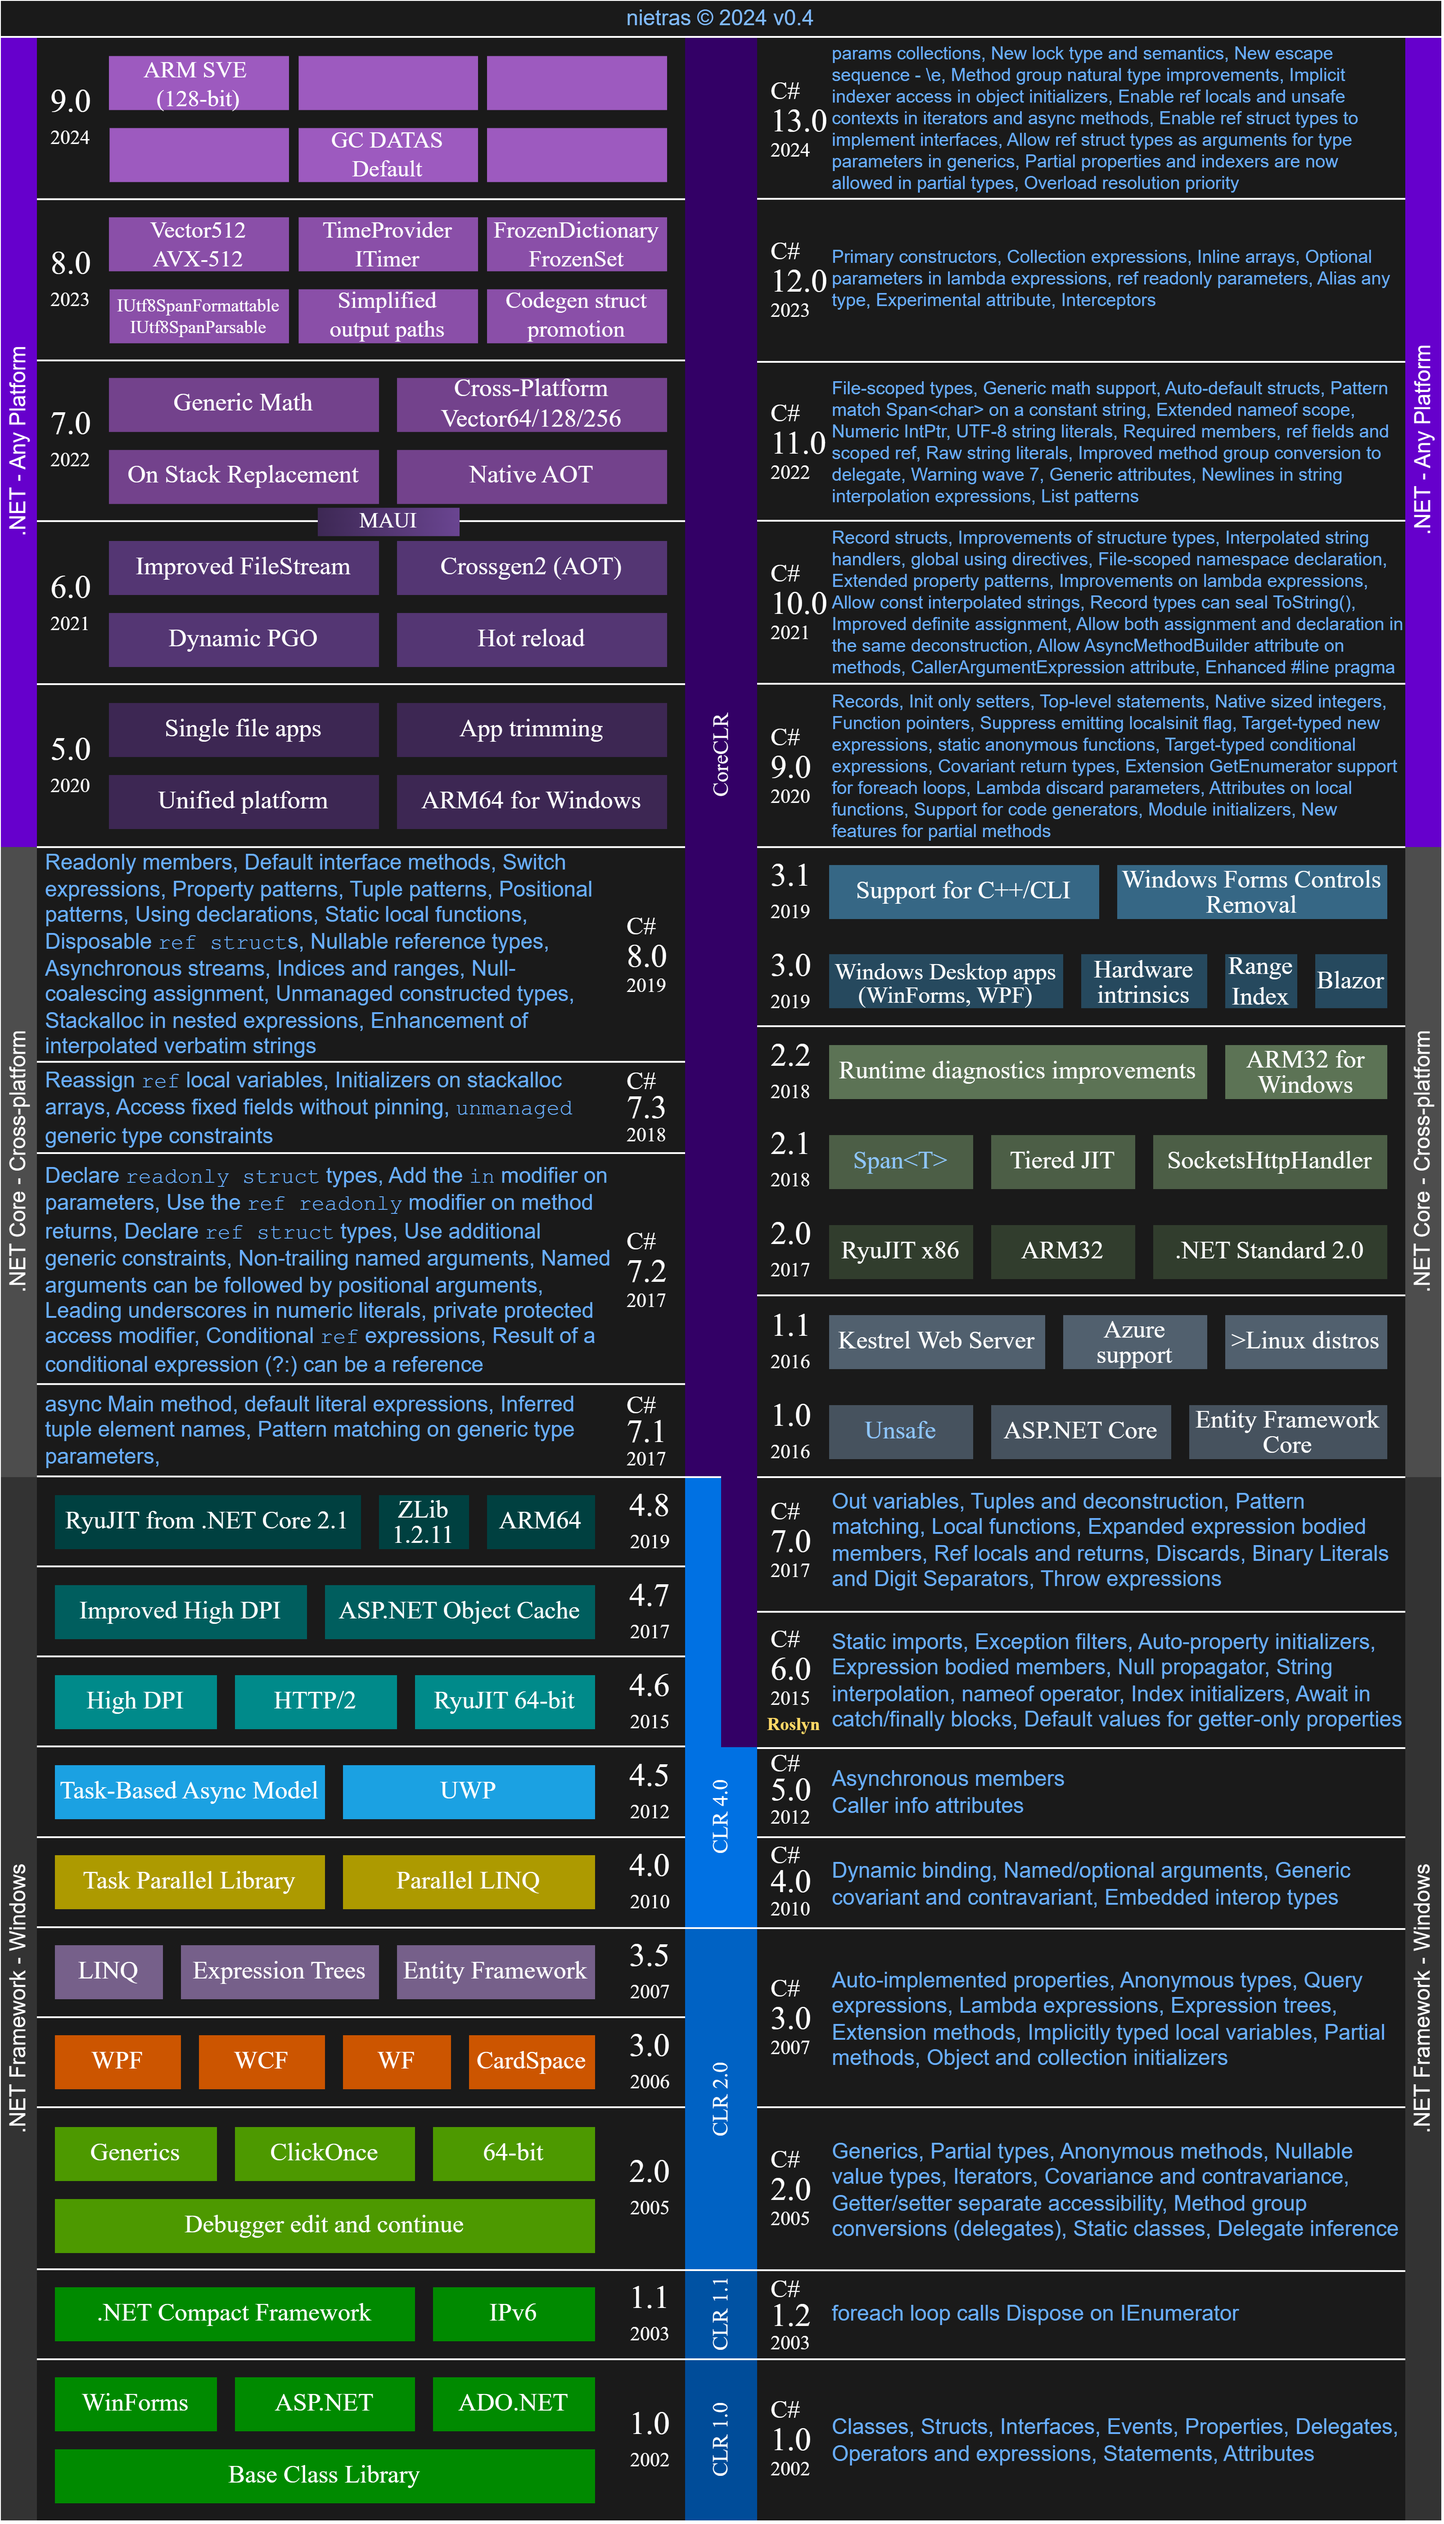
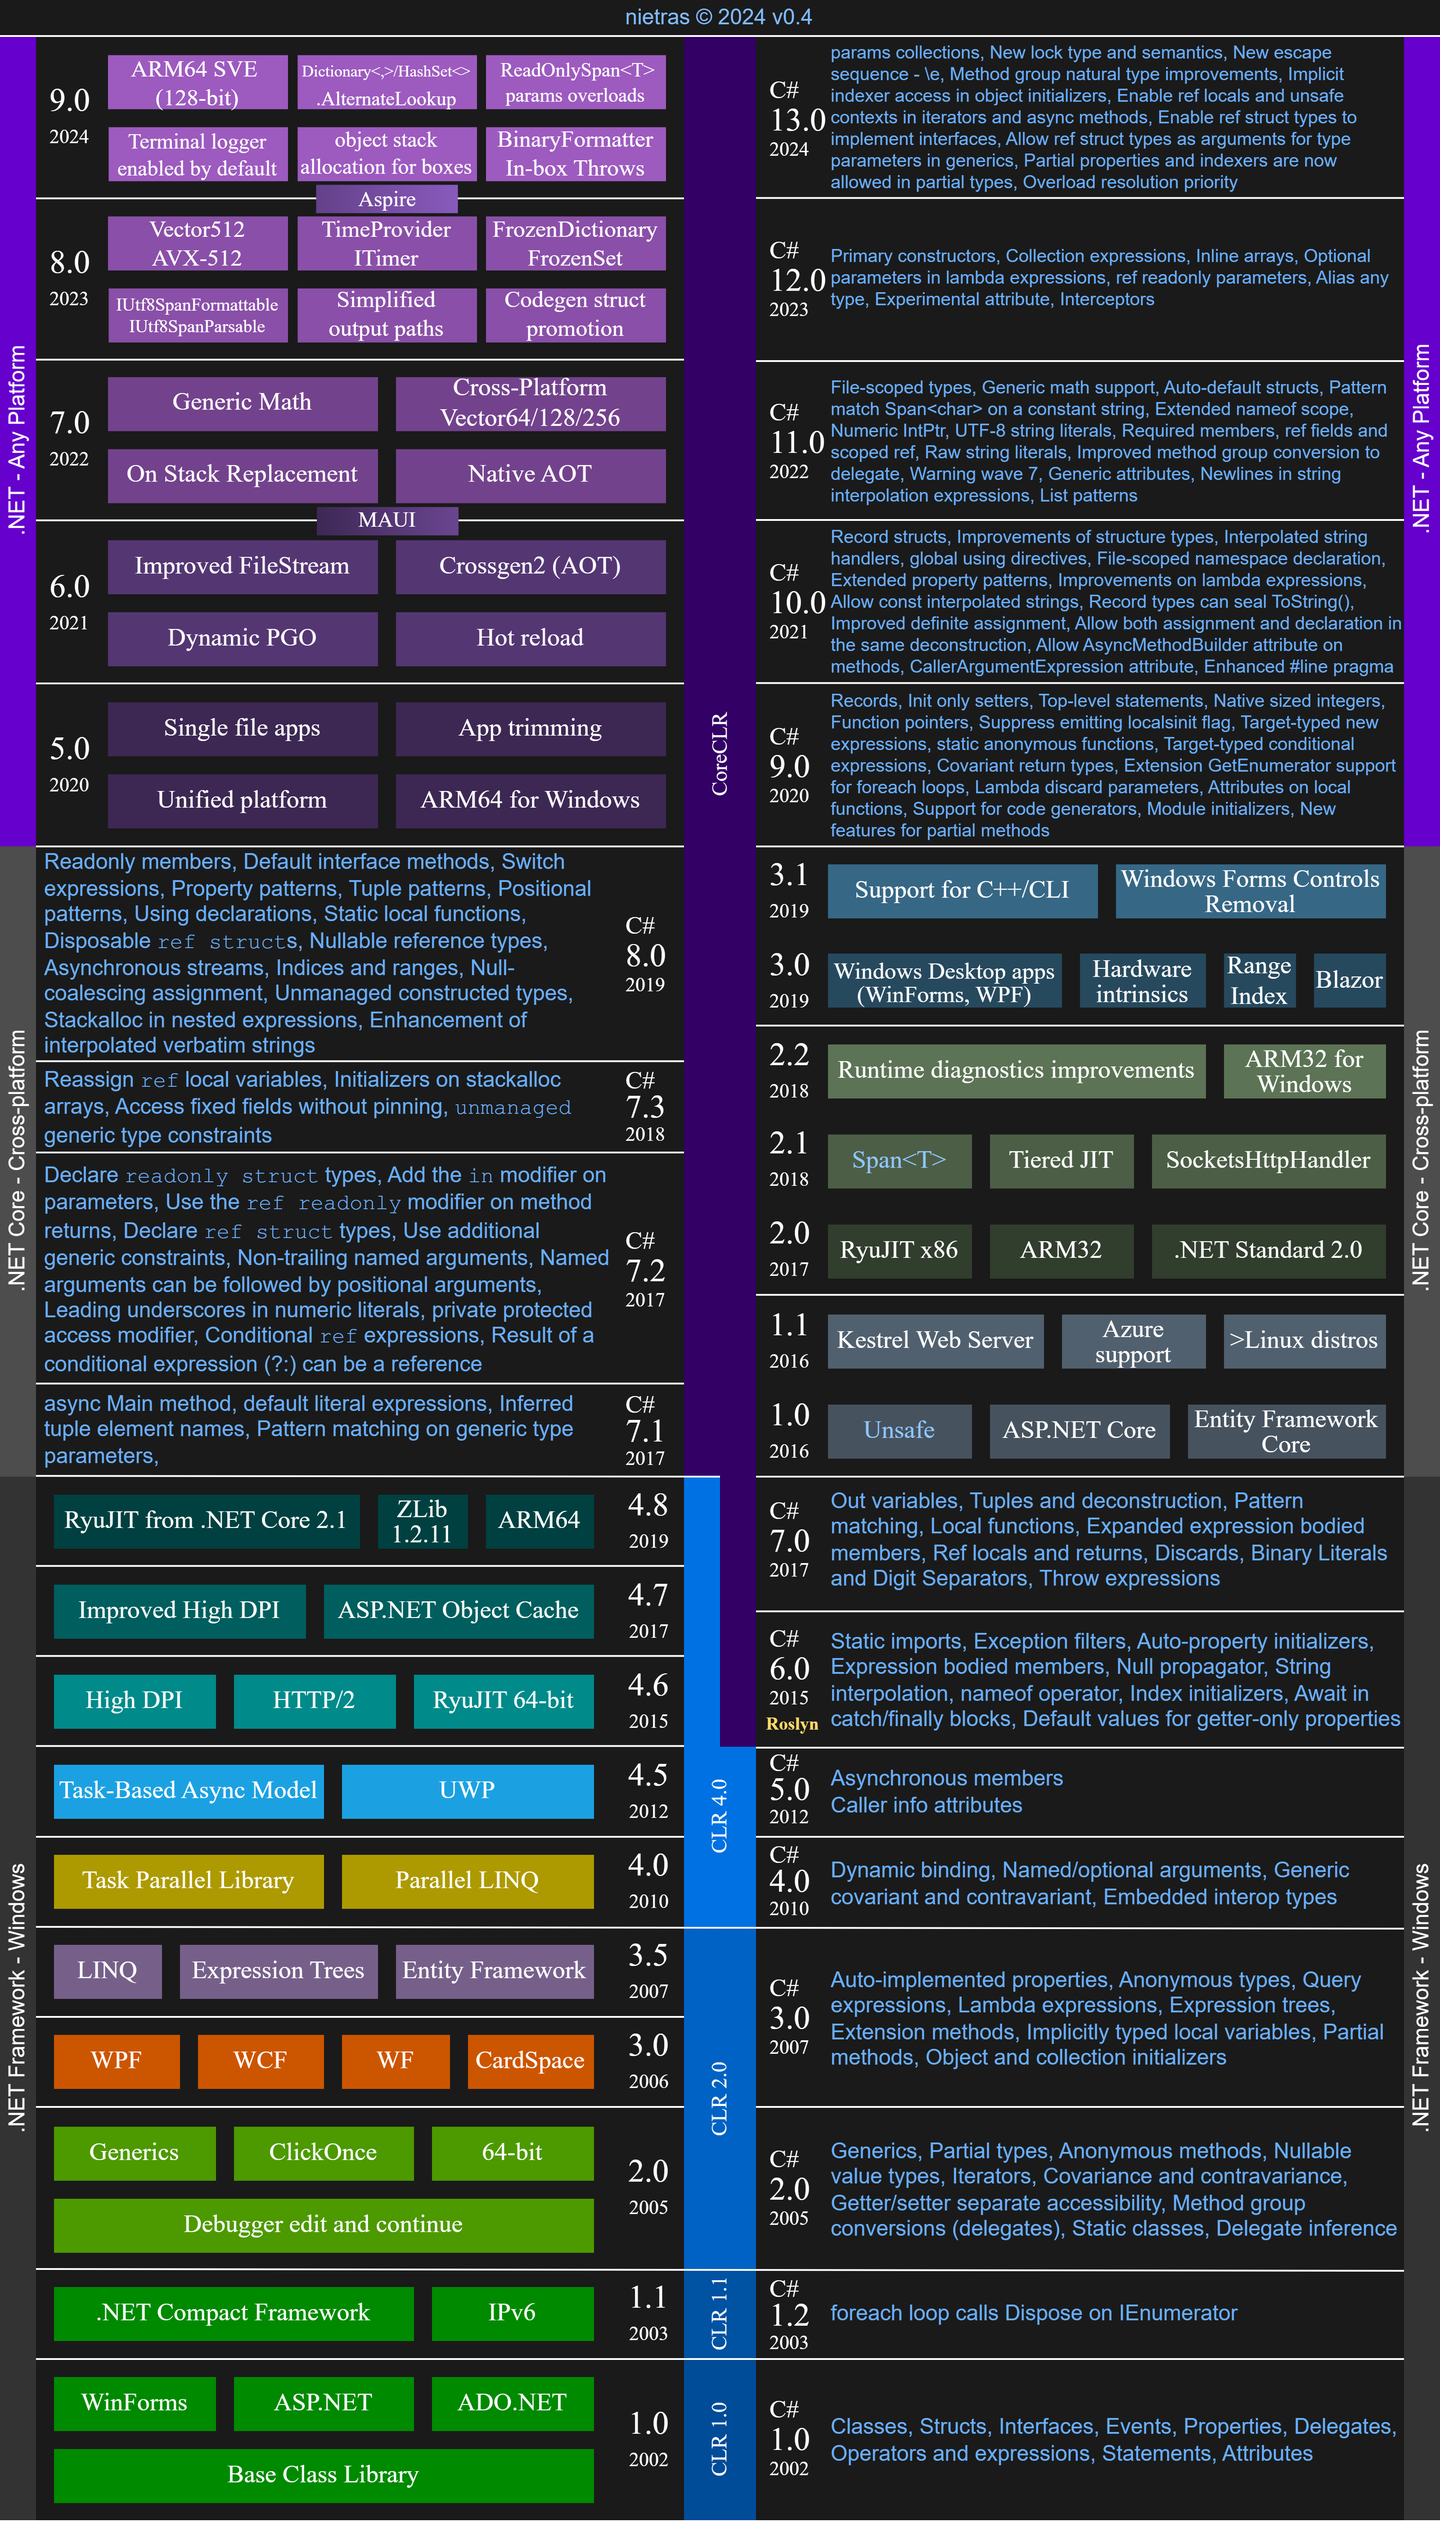
finish diagram

diff --git a/_posts/2024-11-06-dotnet-and-csharp-versions.md b/_posts/2024-11-06-dotnet-and-csharp-versions.md
@@ -15,6 +15,9 @@ resolution, but you can also download a [pdf]({{ site.baseurl
 * [.NET and C# Versions - 7/11 Update]({{ site.baseurl }}/2022/11/26/dotnet-and-csharp-versions)
 * [.NET and C# Versions - 8/12 Update]({{ site.baseurl }}/2023/11/14/dotnet-and-csharp-versions)
 * [What's new in .NET 9](https://learn.microsoft.com/en-us/dotnet/core/whats-new/dotnet-9/overview)
+* [What's new in the .NET 9 runtime](https://learn.microsoft.com/en-us/dotnet/core/whats-new/dotnet-9/runtime)
+* [What's new in .NET libraries for .NET 9](https://learn.microsoft.com/en-us/dotnet/core/whats-new/dotnet-9/libraries)
+* [What's new in the SDK and tooling for .NET 9](https://learn.microsoft.com/en-us/dotnet/core/whats-new/dotnet-9/sdk)
 * [What's new in C# 13](https://learn.microsoft.com/en-us/dotnet/csharp/whats-new/csharp-13)
 
 ### Changes
